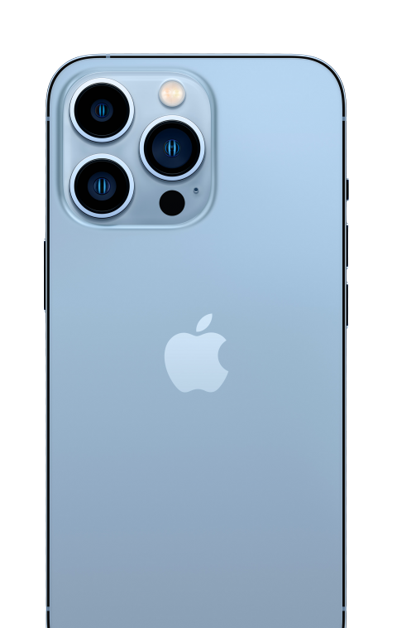
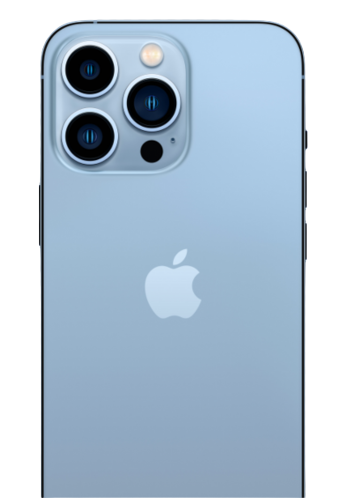
resize the images and changed some styling on product images

diff --git a/client/frontend/src/pages/Home/Hero/Slider/Slider.jsx b/client/frontend/src/pages/Home/Hero/Slider/Slider.jsx
@@ -12,7 +12,7 @@ import { Autoplay, Pagination, Navigation } from "swiper/modules";
 function Slider() {
   return (
     <>
-      <div className="drop-shadow-3xl">
+      <div className="drop-shadow-3xl w-full">
         <Swiper
           style={{
             "--swiper-navigation-color": "#fff",
@@ -34,28 +34,28 @@ function Slider() {
           className="mySwiper"
         >
           <SwiperSlide>
-            <img src="./images/banner.png" alt="" />
+            <img src="./images/banner.png" alt=""  className="bg-cover bg-center"/>
           </SwiperSlide>
           <SwiperSlide>
-            <img src="./images/banner.png" alt="" />
+            <img src="./images/banner.png" alt=""  className="bg-cover bg-center"/>
           </SwiperSlide>
           <SwiperSlide>
-            <img src="./images/banner.png" alt="" />
+            <img src="./images/banner.png" alt=""  className="bg-cover bg-center"/>
           </SwiperSlide>
           <SwiperSlide>
-            <img src="./images/banner.png" alt="" />
+            <img src="./images/banner.png" alt=""  className="bg-cover bg-center"/>
           </SwiperSlide>
           <SwiperSlide>
-            <img src="./images/banner.png" alt="" />
+            <img src="./images/banner.png" alt=""  className="bg-cover bg-center"/>
           </SwiperSlide>
           <SwiperSlide>
-            <img src="./images/banner.png" alt="" />
+            <img src="./images/banner.png" alt=""  className="bg-cover bg-center"/>
           </SwiperSlide>
           <SwiperSlide>
-            <img src="./images/banner.png" alt="" />
+            <img src="./images/banner.png" alt=""  className="bg-cover bg-center"/>
           </SwiperSlide>
           <SwiperSlide>
-            <img src="./images/banner.png" alt="" />
+            <img src="./images/banner.png" alt=""  className="bg-cover bg-center"/>
           </SwiperSlide>
         </Swiper>
       </div>

diff --git a/client/frontend/src/pages/ProductPage/ProductSection/ProductImageSection/ProductImage.jsx b/client/frontend/src/pages/ProductPage/ProductSection/ProductImageSection/ProductImage.jsx
@@ -4,7 +4,7 @@ function ProductImage() {
   const [selectedImage, setSelectedImage] = useState(null);
   const productImages = useMemo(
     () => [
-      "./images/iphone 2.png",
+      "./images/iphone 2-1.png",
       "./images/iphone 1.png",
       "./images/iphone 3.png",
       "./images/iphone 4.png",
@@ -33,13 +33,13 @@ function ProductImage() {
         </div> */}
         <div></div>
         <div className="flex">
-          <div className="grid grid-rows-4 w-[80px] h-fit gap-4">
+          <div className="grid grid-rows-4 w-[80px] h-fit gap-4 ">
             {productImages.map((image, index) => (
               <div
                 key={index}
                 onClick={() => handleImageClick(image)}
-                className={`cursor-pointer w-[60px] h-[80px]  rounded-[10px] flex justify-center items-center ${
-                  selectedImage === image ? "bg-gray-200" : ""
+                className={`cursor-pointer bg-gray-200 w-[60px] h-[80px]  rounded-[10px] flex justify-center items-center ${
+                  selectedImage === image ? "bg-sky-200" : ""
                 }`}
               >
                 <img
@@ -55,7 +55,7 @@ function ProductImage() {
               <img
                 src={selectedImage}
                 alt="Selected Product Image"
-                className="w-full h-auto"
+                className="w-[350px]h-[500px]"
               />
             )}
           </div>

diff --git a/client/frontend/src/pages/ProductPage/ProductSection/ProductSection.jsx b/client/frontend/src/pages/ProductPage/ProductSection/ProductSection.jsx
@@ -3,8 +3,17 @@ import ProductImage from "./ProductImageSection/ProductImage"
 function ProductSection() {
   return (
     <>
-    <div>
+    <div className="flex ">
+      <div className="flex-1">
       <ProductImage />
+      </div>
+      
+      <div className="flex-1 w-full h-full bg-gray-300 px-40 py-8">
+        <div>
+          <div></div>
+          <div></div>
+        </div>
+      </div>
     </div>
     </>
   )
